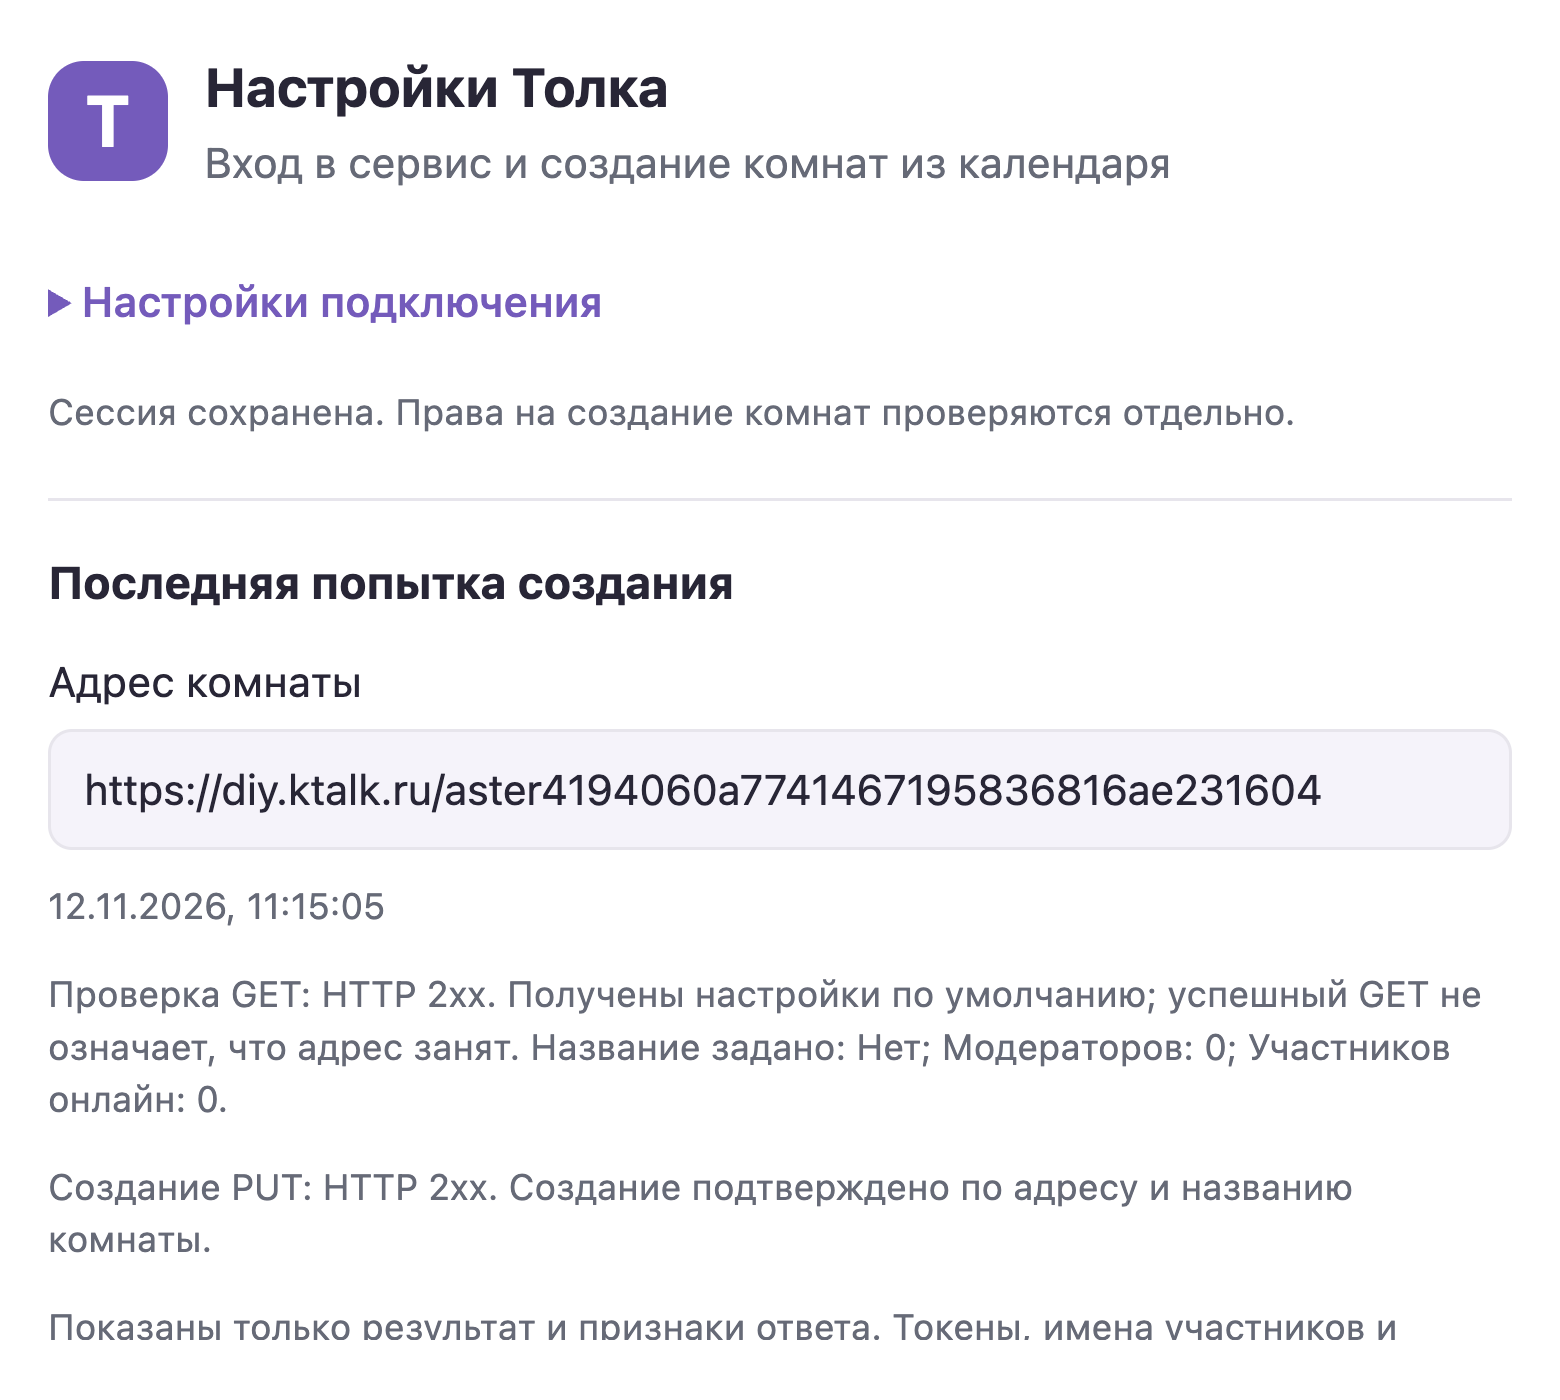
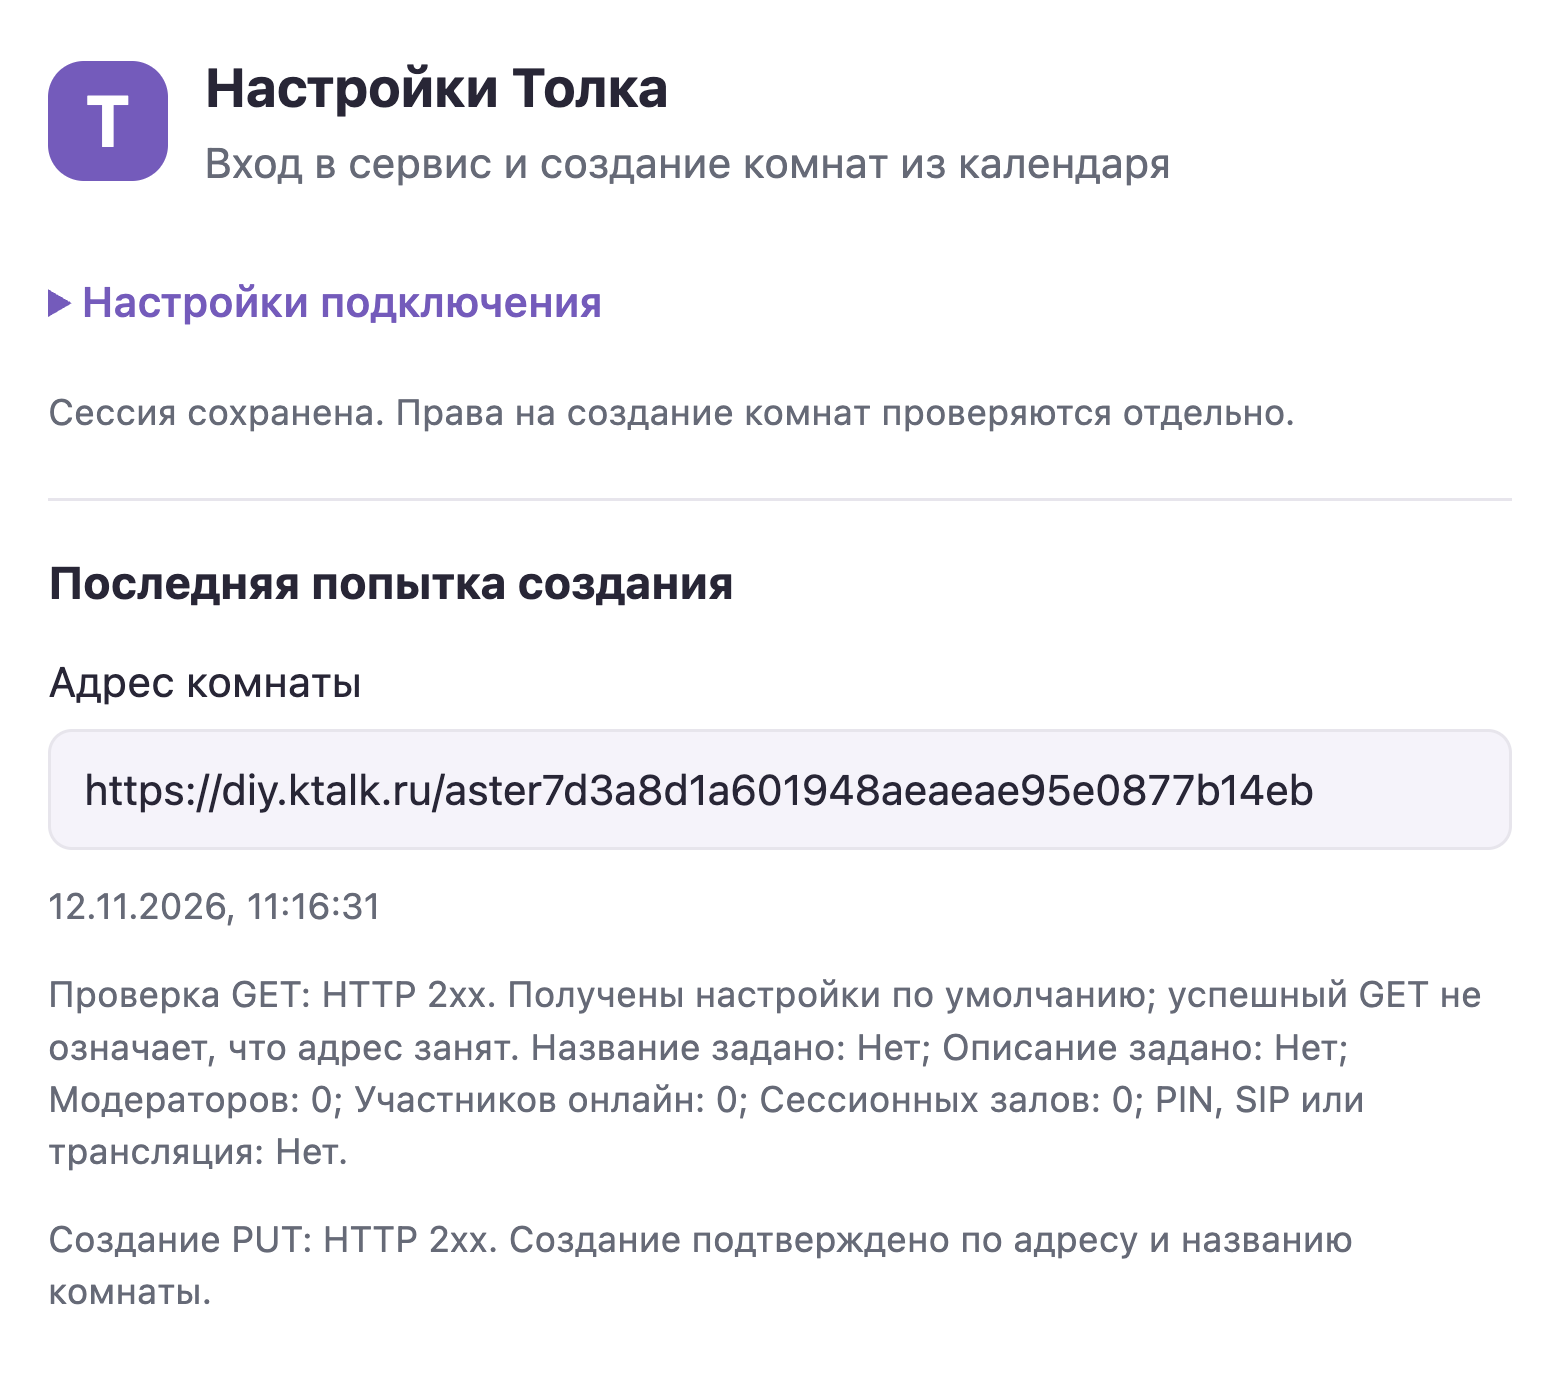
Show all room configuration flags in attempt details

diff --git a/ktalk/i18n.js b/ktalk/i18n.js
@@ -17,8 +17,11 @@ const en = {
   'Проверка подтвердила адрес и название комнаты.': 'Verification confirmed the room address and title.',
   'Проверка не выполнена.': 'Check failed.',
   'Название задано': 'Title present',
+  'Описание задано': 'Description present',
   'Модераторов': 'Moderators',
   'Участников онлайн': 'Users online',
+  'Сессионных залов': 'Session halls',
+  'PIN, SIP или трансляция': 'PIN, SIP or stream',
   'Да': 'Yes',
   'Нет': 'No',
   'Проверка адреса комнаты не выполнена. Запрос создания не отправлялся.': 'The room address check failed. No creation request was sent.',
@@ -125,6 +128,6 @@ export function inspectionText(result, tr) {
     rejected: 'Запрос отклонён.', confirmed: 'Проверка подтвердила адрес и название комнаты.', failed: 'Проверка не выполнена.'
   };
   const http = result?.http === '2xx' || Number.isInteger(result?.http) && result.http >= 400 && result.http <= 599 ? `HTTP ${result.http}. ` : '';
-  const summary = ['default', 'configured'].includes(result?.kind) ? ` ${tr('Название задано')}: ${tr(result.hasTitle ? 'Да' : 'Нет')}; ${tr('Модераторов')}: ${result.moderators}; ${tr('Участников онлайн')}: ${result.users}.` : '';
+  const summary = ['default', 'configured'].includes(result?.kind) ? ` ${tr('Название задано')}: ${tr(result.hasTitle ? 'Да' : 'Нет')}; ${tr('Описание задано')}: ${tr(result.hasDescription ? 'Да' : 'Нет')}; ${tr('Модераторов')}: ${result.moderators}; ${tr('Участников онлайн')}: ${result.users}; ${tr('Сессионных залов')}: ${result.halls}; ${tr('PIN, SIP или трансляция')}: ${tr(result.protected ? 'Да' : 'Нет')}.` : '';
   return http + tr(labels[result?.kind] || 'Запрос не отправлялся.') + summary;
 }
